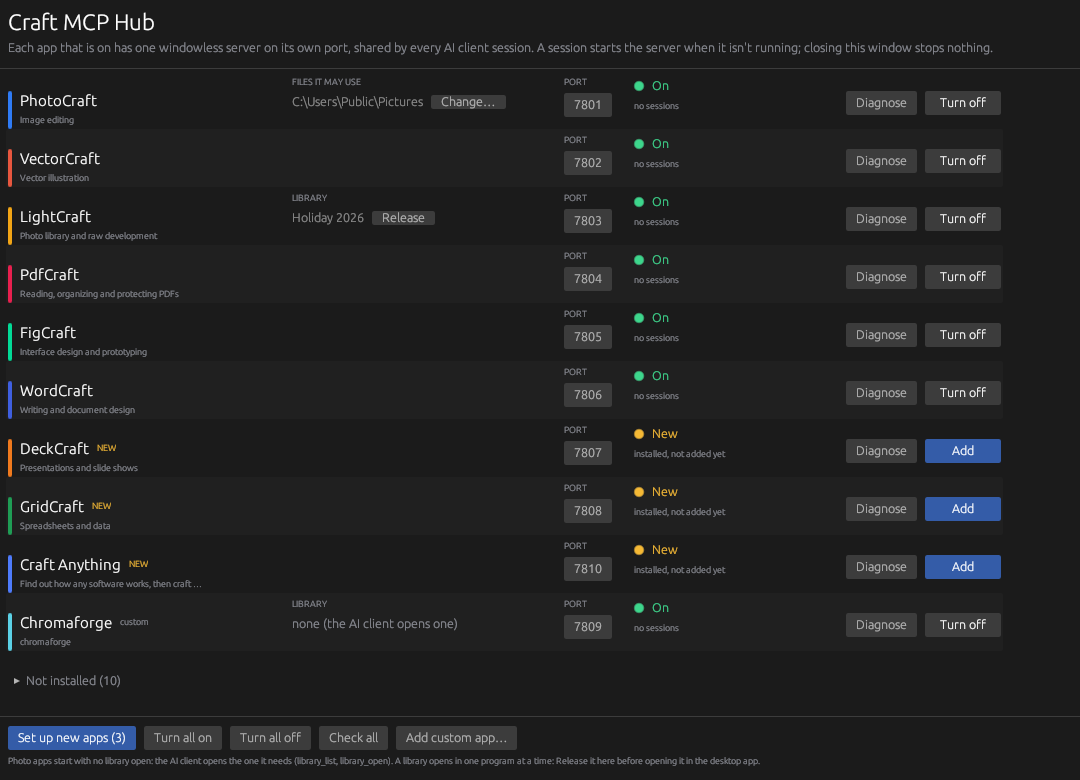
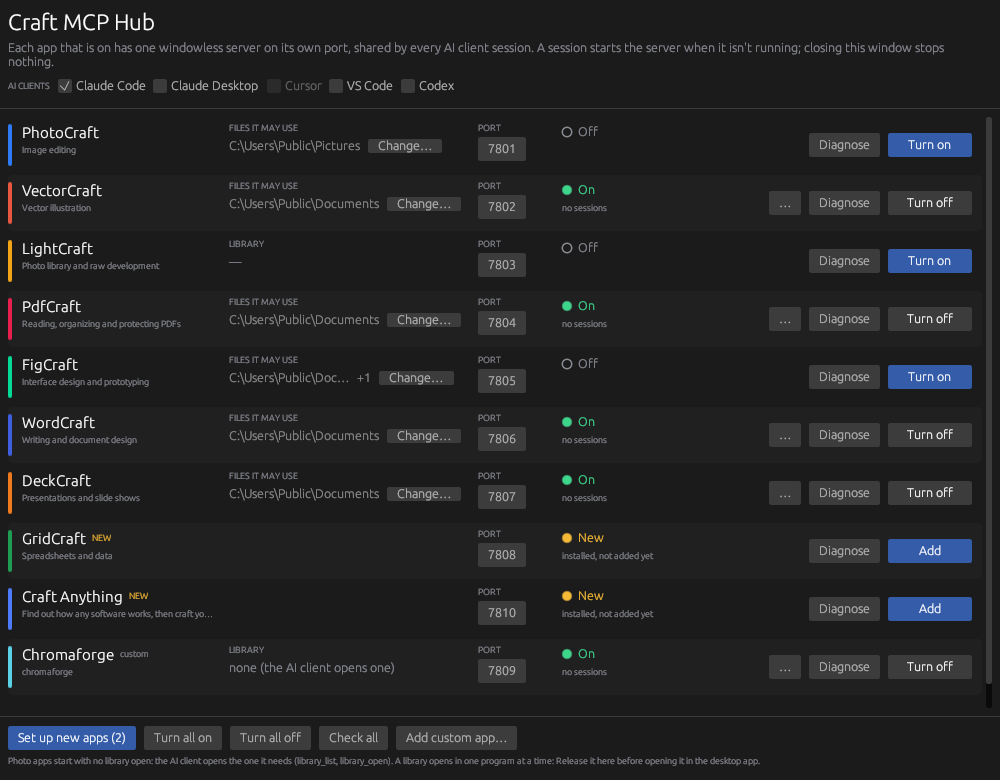
Get ready for a first public release
The release workflow keeps a release as a draft until every build is attached, refuses a tag that isn't the version in Cargo.toml, takes its notes from the new changelog and publishes a checksum with each file. The install scripts check the download against it before installing anything; the Windows one also asks for TLS 1.2, leaves nothing behind in the session, and adds to PATH without expanding the entries already there. Both say what to do after an update: crafthub restart all, which is new.

Actions are pinned to commits and CI reads only. The README says what the installer does, how to update and uninstall, and where to report problems; its picture shows the panel as it is now. The panel no longer squeezes the Change button or cuts the count off a long list of folders.

diff --git a/src/bin/crafthub.rs b/src/bin/crafthub.rs
@@ -3,6 +3,7 @@
 use clap::{Parser, Subcommand};
 use crafthub::clients::Snapshot;
 use crafthub::config::Config;
+use crafthub::control::{self, Probe};
 use crafthub::hub::{self, AddOptions, App, Hub, Origin, StateKind};
 use crafthub::server::{self, ServerSpec};
 use crafthub::{catalog, clients, doctor, guide, logger, paths, shim};
@@ -64,7 +65,7 @@ enum Command {
     Off { app: String },
     /// Move an app's server to another port
     Port { id: String, port: u16 },
-    /// Set the folder an app's engine may read and write (apps that need one, like PhotoCraft)
+    /// Show or set the folders an app's engine may read and write
     Root {
         id: String,
         /// The folders (several for the engines that take more than one)
@@ -77,7 +78,7 @@ enum Command {
     Check { app: Option<String> },
     /// Check everything between the AI client and an app's engine, and say what to do
     Doctor { id: String },
-    /// Restart an app's server
+    /// Restart an app's server (`all` for every server that is running, as after an update)
     Restart { id: String },
     /// Close the library an app has open, so the desktop app can open it
     CloseLibrary { id: String },
@@ -162,6 +163,7 @@ fn main() -> ExitCode {
             println!("{}", doctor::report(&id));
             true
         }
+        Command::Restart { id } if id == "all" => restart_running(),
         Command::Restart { id } => done(hub::restart(&id), &format!("{id}: restarted")),
         Command::CloseLibrary { id } => done(hub::close_library(&id), &format!("{id}: library closed")),
         Command::Catalog { update } => show_catalog(update),
@@ -216,6 +218,21 @@ fn each(which: &str, word: &str, action: fn(&str) -> Result<(), String>) -> bool
     if ids.is_empty() {
         println!("No apps have been added yet: `crafthub setup` adds every installed one.");
     }
+    each_of(ids, word, action)
+}
+
+/// Restarts every server that is running. After an update they are still the previous version;
+/// an app that is on with no server running needs nothing, its next session starts the new one.
+fn restart_running() -> bool {
+    let running = |app: &App| app.configured && matches!(control::status(app.port), Probe::Up(_));
+    let ids: Vec<String> = Hub::load().apps().into_iter().filter(running).map(|app| app.id).collect();
+    if ids.is_empty() {
+        println!("No server is running.");
+    }
+    each_of(ids, "restarted", hub::restart)
+}
+
+fn each_of(ids: Vec<String>, word: &str, action: fn(&str) -> Result<(), String>) -> bool {
     let mut ok = true;
     for id in ids {
         match action(&id) {

diff --git a/src/bin/crafthub-panel.rs b/src/bin/crafthub-panel.rs
@@ -467,7 +467,7 @@ impl Panel {
     fn extra_value(&mut self, ui: &mut egui::Ui, app: &App, state: &AppState, busy: bool) {
         ui.spacing_mut().item_spacing.x = 8.0;
         // The text gives way to the button, which must stay in view.
-        let text_width = ui.available_width() - 76.0;
+        let text_width = ui.available_width() - 84.0;
         if app.profile.library {
             match &state.library {
                 Some(library) => {
@@ -487,7 +487,11 @@ impl Panel {
                         .on_hover_text("Not restricted: an AI client can have this engine open or save any file you can."),
                 ),
                 [only] => drop(label_up_to(ui, text_width, RichText::new(only)).on_hover_text(only)),
-                [first, more @ ..] => drop(label_up_to(ui, text_width, RichText::new(format!("{first} +{}", more.len()))).on_hover_text(roots.join("\n"))),
+                [first, more @ ..] => {
+                    // The count has its own place, so it stays when the first folder is cut short.
+                    label_up_to(ui, text_width - 30.0, RichText::new(first)).on_hover_text(roots.join("\n"));
+                    ui.label(format!("+{}", more.len())).on_hover_text(roots.join("\n"));
+                }
             }
             if ui.add_enabled(!busy, egui::Button::new("Change…").small()).clicked() {
                 self.root_edit = Some(RootEdit {

diff --git a/CHANGELOG.md b/CHANGELOG.md
@@ -1,0 +1,16 @@
+# Changelog
+
+## 0.5.0
+
+The first public release.
+
+- **One shared server per app.** Each Artcraft app you turn on gets one windowless engine on its own local port, and every AI client session connects to that same engine. A session starts the server when it isn't running, and closing the control panel stops nothing.
+- **A control panel and a command-line tool** (`crafthub`) to turn apps on and off, change their ports, test them with a real MCP round trip, and say why something doesn't connect (`crafthub doctor`, **Diagnose**).
+- **The apps come from the Artcraft launcher's catalog**, so a newly installed app shows up by itself. Forks and custom builds can be added too.
+- **AI clients:** Claude Code, Claude Desktop, Cursor, VS Code and Codex are built in. Any other client that keeps its MCP servers in a JSON or TOML file can be described with `crafthub clients add`, and `crafthub guide` tells an AI how to set the hub up for itself.
+- **Photo libraries:** engines start with no library, which leaves the desktop app free, and the AI client opens the one it needs (`library_list`, `library_open`, `library_close`).
+- **Files:** engines are kept to the folders you choose where the app allows it (PhotoCraft, VectorCraft, FigCraft, WordCraft, PdfCraft, DeckCraft).
+- **Security:** servers listen on `127.0.0.1` only and every connection must present a token only you can read. The install scripts check each download against its checksum.
+- **Updating:** run the install command again, then `crafthub restart all`.
+
+Tested on Windows with the installed apps. The macOS and Linux builds have not been run against real apps yet: see the README's Status section.

diff --git a/SECURITY.md b/SECURITY.md
@@ -1,0 +1,9 @@
+# Security
+
+Craft MCP Hub runs local servers that let AI clients drive desktop apps, so a flaw in it matters. What it protects against, and what it doesn't, is in the [README](README.md#security).
+
+## Reporting a problem
+
+Please don't open a public issue for something that could put people who use the hub at risk. Use **Report a vulnerability** on the repository's [Security tab](https://github.com/AndrianLeah/craft-mcp-hub/security/advisories/new) instead: it reaches the maintainer privately. Say which version (`crafthub --version`) and system you are on, and how to reproduce it.
+
+Only the latest release is supported: a fix goes into a new release.
